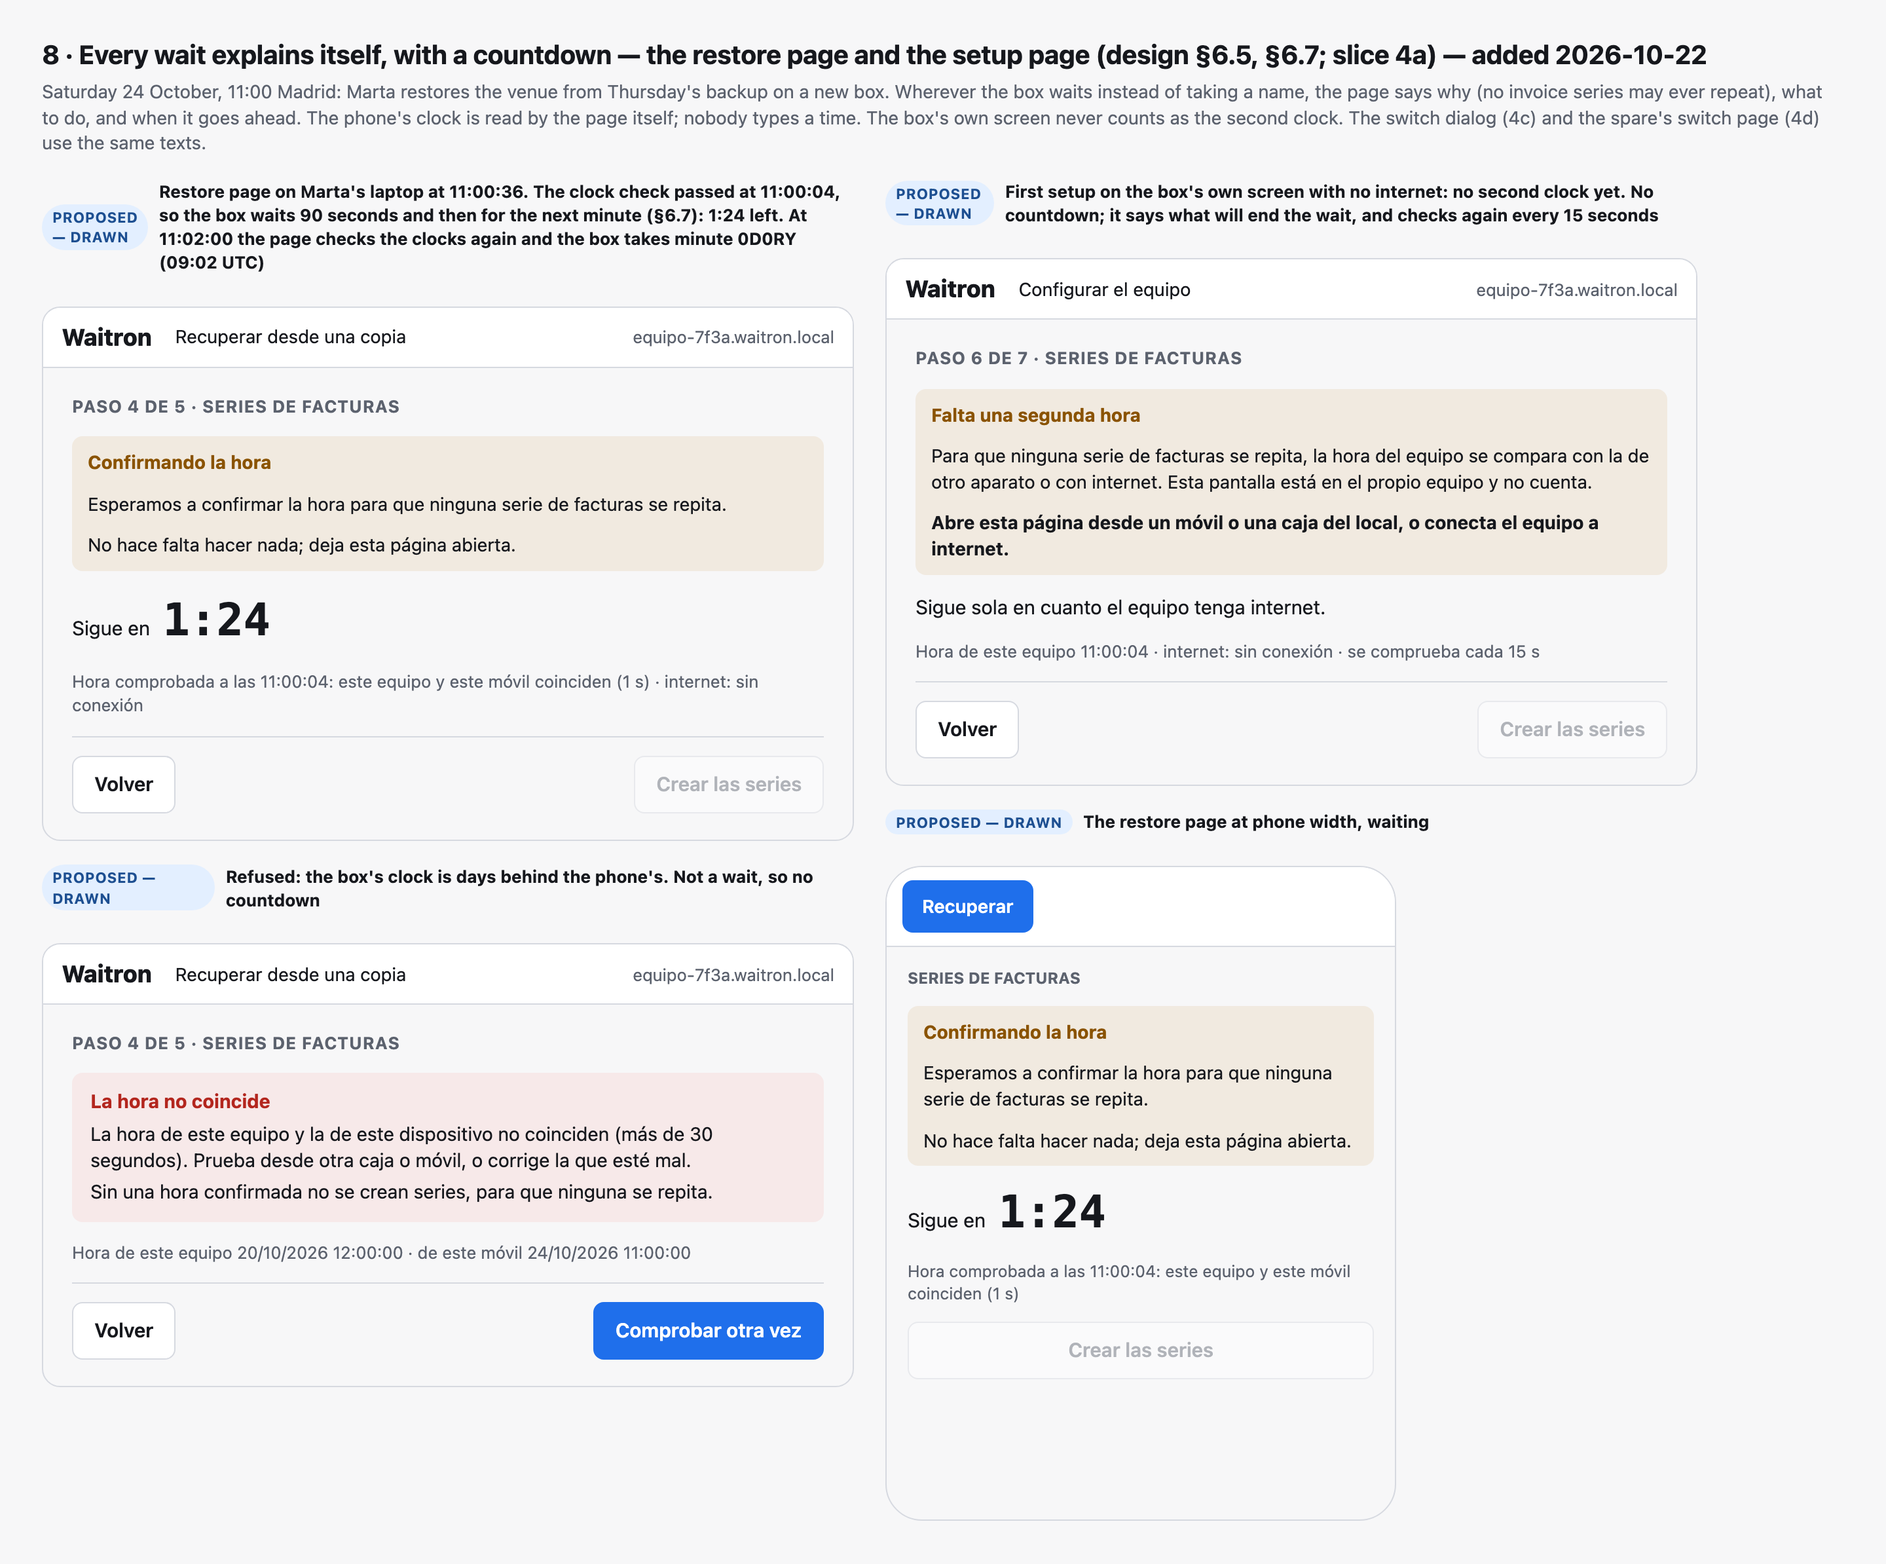
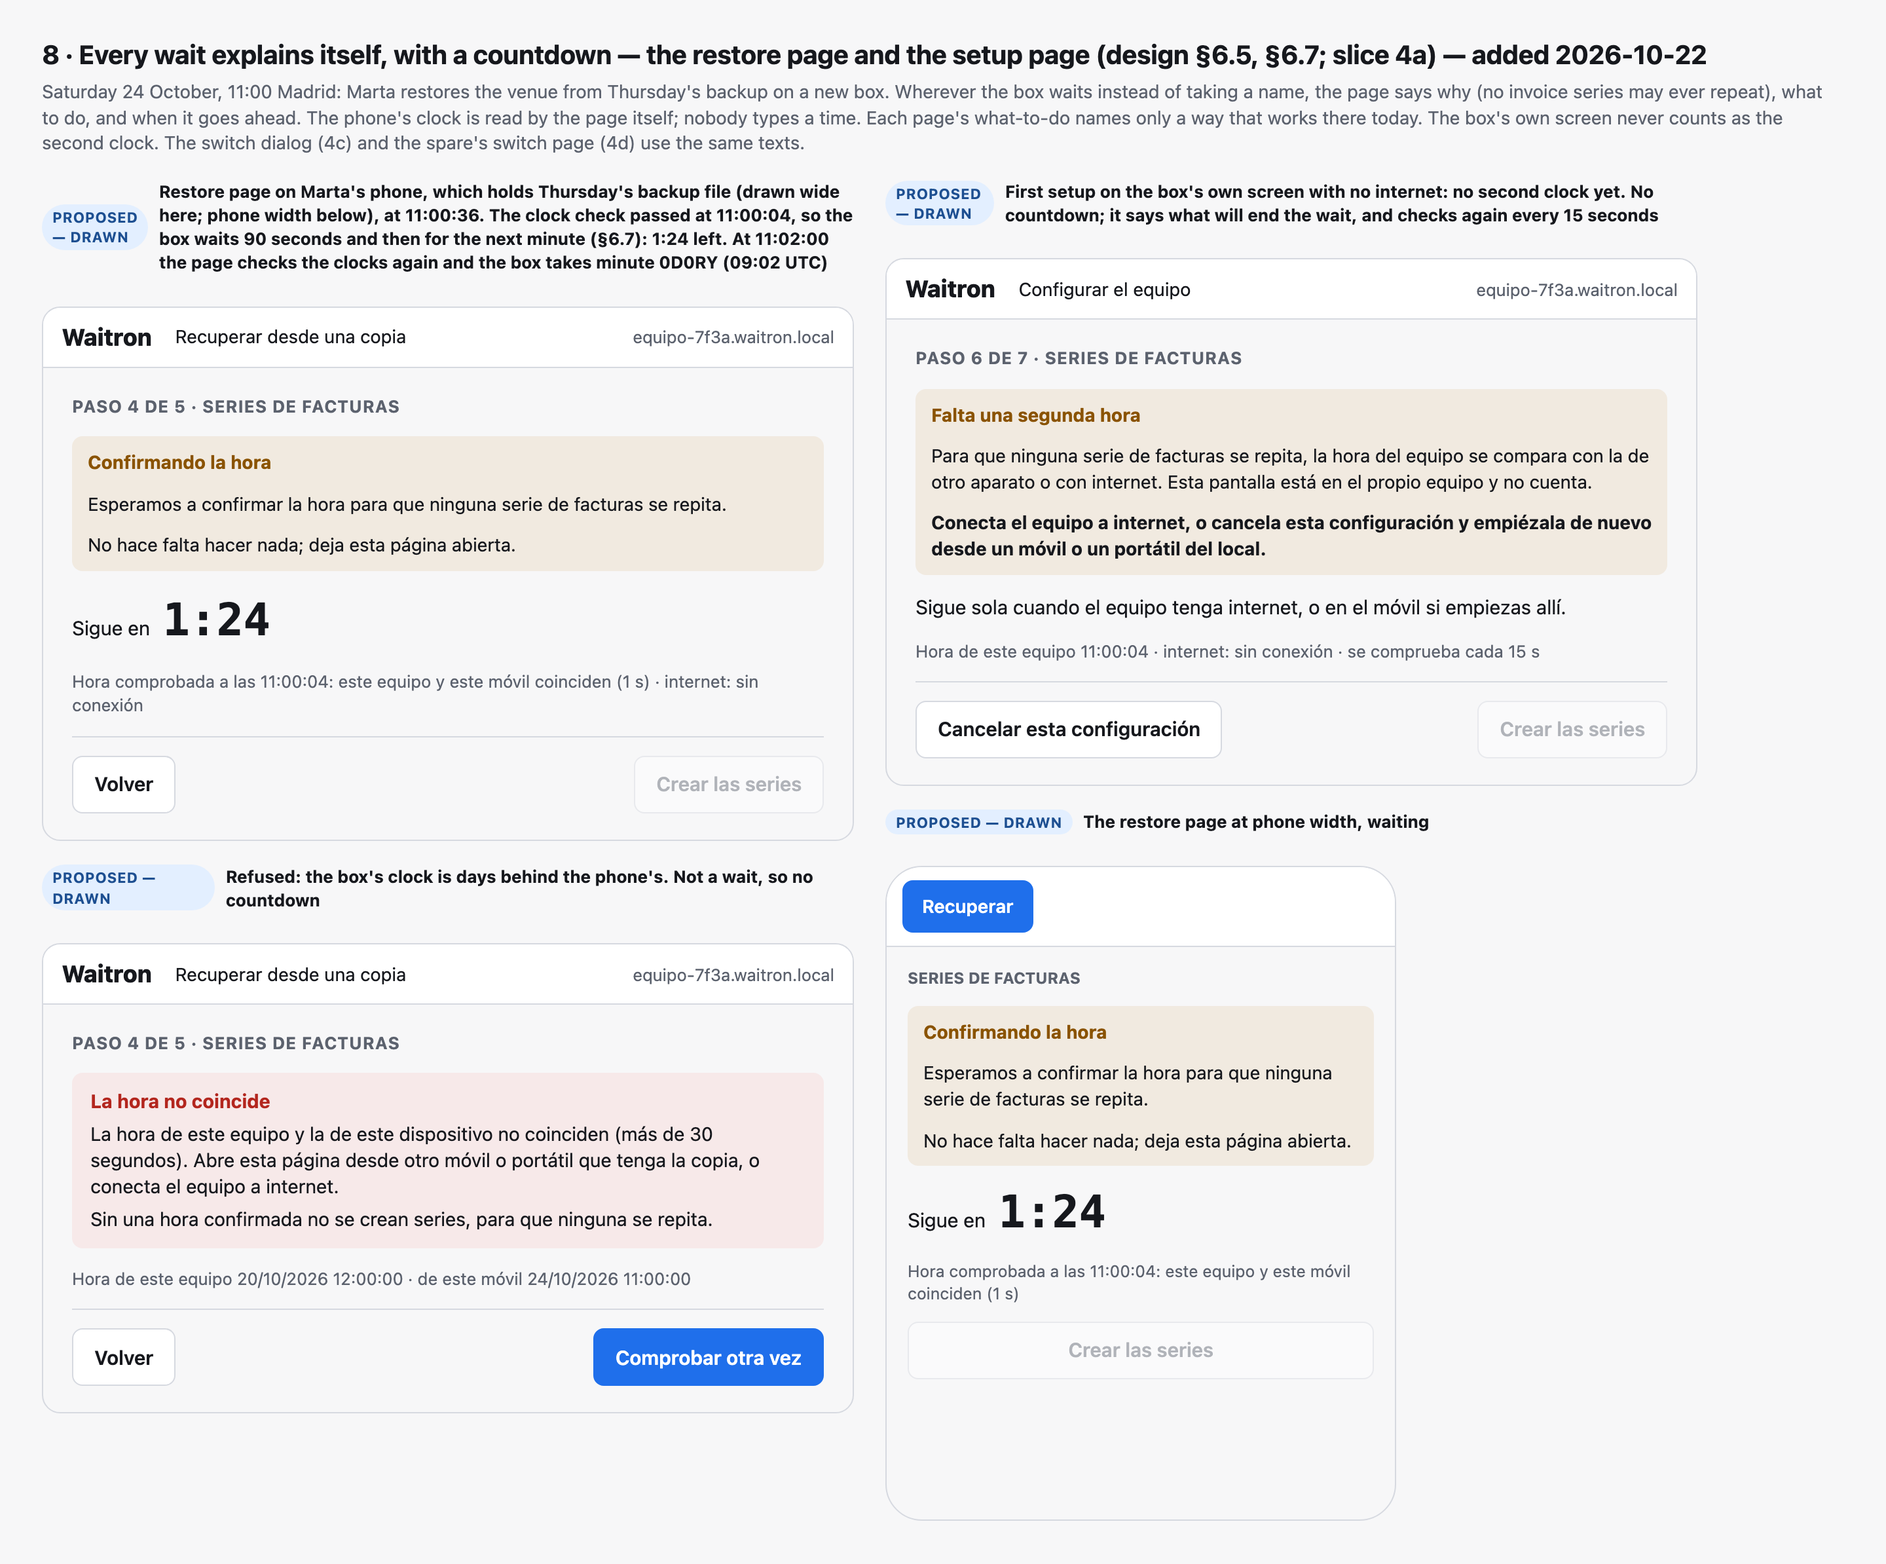
docs: A947 design — the wait texts say only what works today
Applies the fresh review of the slice 4a plan and the coordinator's rulings to
the 2026-10-22 amendment.

- Each page's what-to-do now names only a way that works on that page today. A
  setup belongs to the browser that started it, so the setup page says to cancel
  and start again from a phone (a new claim is refused only while another attempt
  is open, first-setup-state.ts:507-516, read not run). A restore from a backup
  file needs the file, so the restore page names a device that has the backup.
- The no-second-clock text names everything that ends the wait.
- The clock refusal's «…o corrige la que esté mal» ("or correct the one that is
  wrong") asked for a correction nobody can make on the box, so it now gives the
  owner's own 03:12 words: open this page from another till or phone, or connect
  the box to the internet. An FYI for the owner.
- §11's references to §6.7's floor rules are renumbered (it has two, not four).
- §13 gains a line: a kiosk browser in a container on a Docker bridge would count
  as another device.
- Mock-up 8 redrawn: the device is Marta's phone throughout, the setup panel gets
  its cancel button, and the texts match.

diff --git a/docs/superpowers/specs/2026-10-21-a947-two-box-failover-design.md b/docs/superpowers/specs/2026-10-21-a947-two-box-failover-design.md
@@ -32,6 +32,13 @@ rewritten, and carries a dated pointer here.
 >   as the second clock, and nobody is asked to type a time there either.
 > - **§11** slices 4a, 4c and 4d name the screens; §13 and the provenance table gain a line each.
 >   Nothing else the owner approved changes.
+> - **After the plan's review, the same day**: each page's what-to-do names only a way that works
+>   on that page today (a setup belongs to the browser that started it, so the setup page says
+>   "cancel and start again from a phone", and a restore page names a device "that has the
+>   backup"); and the approved clock refusal's «…o corrige la que esté mal» ("or correct the one that
+>   is wrong") is replaced by the owner's own 03:12 words, «Abre esta página desde otra caja o móvil,
+>   o conecta el equipo a internet», because nobody can correct the box's clock (§13). **An FYI to
+>   the owner**, not a question. §13 gains a line on a kiosk browser in a container.
 >
 > **Second revision 2026-10-21 — the owner's answers of about 22:25.** What changed, section by
 > section. (An "installation code" is the short name a box's invoices carry, such as the `0CZZW`
@@ -784,9 +791,11 @@ taken until one of them is put right — and the box cannot tell which one is wr
 - **A spare whose clock has drifted cannot be switched to** — the hard one, mid-service.
 - **A till or phone whose clock has drifted blocks a box whose clock is right**: the switch or the
   restore is refused although the box is fine. So the refusal must not say the box is wrong. It
-  says «La hora de este equipo y la de este dispositivo no coinciden (más de 30 segundos). Prueba
-  desde otra caja o móvil, o corrige la que esté mal», with both readings, and a manager can try
-  from another device.
+  says «La hora de este equipo y la de este dispositivo no coinciden (más de 30 segundos). Abre
+  esta página desde otra caja o móvil, o conecta el equipo a internet», with both readings, and a
+  manager can try from another device. (Amended 2026-10-22: the approved «…o corrige la que esté
+  mal» asked for a correction nobody can make on the box — there is no set-the-clock action, §13
+  — so it now gives the owner's own 03:12 words for what to do. An FYI to the owner.)
 - **The main box's clock drifting goes unseen.** If the main box runs 20 seconds fast and the spare
   31 seconds fast, they differ by 11 seconds, no spare-against-main alert fires, and a switch checked
   against a right till is refused. And a main box out by more than 30 seconds blocks its own
@@ -835,15 +844,31 @@ itself — rule 4 refuses rather than waits out a clock that some reference got 
 | Case | Why | What to do, and when it goes ahead |
 | --- | --- | --- |
 | The 90 to 150 seconds after the check, at a setup or a restore (§6.7); a switch waiting for the next minute | «Esperamos a confirmar la hora para que ninguna serie de facturas se repita.» / "Waiting to confirm the time, so no invoice series is ever repeated." A switch adds the approved «Ya se usó este minuto para cambiar de equipo». | «No hace falta hacer nada; deja esta página abierta.» / "Nothing to do; keep this page open." Then «Sigue en 1:24» / "Continues in 1:24", counting down. |
-| No second clock yet: no internet, and the page is on the box's own screen (or no other device's reading arrived) | «Para que ninguna serie de facturas se repita, la hora del equipo se compara con la de otro aparato o con internet.» / "So no invoice series is ever repeated, the box's time is compared with another device's or the internet's." On the box's own screen it adds «Esta pantalla está en el propio equipo y no cuenta.» / "This screen is on the box itself, so it does not count." | «Abre esta página desde un móvil o una caja del local, o conecta el equipo a internet.» / "Open this page on a phone or till on the venue's network, or connect the box to the internet." No countdown: «Sigue sola en cuanto el equipo tenga internet.» / "It carries on by itself once the box reaches the internet." The page checks again every 15 seconds. |
-| Refused: this box and the other clock differ by more than 30 seconds | «Sin una hora confirmada no se crean series, para que ninguna se repita.» / "No series is made without a confirmed time, so none is ever repeated." | The approved text above, «La hora de este equipo y la de este dispositivo no coinciden (más de 30 segundos). Prueba desde otra caja o móvil, o corrige la que esté mal» / "This box's time and this device's differ by more than 30 seconds. Try from another till or phone, or correct the one that is wrong", with both readings and «Comprobar otra vez» / "Check again". No countdown. |
+| No second clock yet: no internet, and the page is on the box's own screen (or no other device's reading arrived) | «Para que ninguna serie de facturas se repita, la hora del equipo se compara con la de otro aparato o con internet.» / "So no invoice series is ever repeated, the box's time is compared with another device's or the internet's." On the box's own screen it adds «Esta pantalla está en el propio equipo y no cuenta.» / "This screen is on the box itself, so it does not count." | What to do, and what ends the wait, say only what works today (below). No countdown. The page checks again every 15 seconds. |
+| Refused: this box and the other clock differ by more than 30 seconds | «Sin una hora confirmada no se crean series, para que ninguna se repita.» / "No series is made without a confirmed time, so none is ever repeated." | «La hora de este equipo y la de este dispositivo no coinciden (más de 30 segundos).» / "This box's time and this device's differ by more than 30 seconds.", then the page's what-to-do (below), both readings and «Comprobar otra vez» / "Check again". No countdown. |
+
+What to do, by page — each names only a way that works on that page today:
+
+| Page | No second clock: what to do | No second clock: what ends the wait | Clocks differ: what to do |
+| --- | --- | --- | --- |
+| Setup page | «Conecta el equipo a internet, o cancela esta configuración y empiézala de nuevo desde un móvil o un portátil del local.» / "Connect the box to the internet, or cancel this setup and start it again from a phone or laptop on the venue's network." | «Sigue sola cuando el equipo tenga internet, o en el móvil si empiezas allí.» / "It carries on by itself once the box reaches the internet, or on the phone if you start there." | «Cancela esta configuración y empiézala desde otro móvil o portátil, o conecta el equipo a internet.» / "Cancel this setup and start it from another phone or laptop, or connect the box to the internet." |
+| Restore page | «Conecta el equipo a internet, o abre esta página desde un móvil o un portátil del local que tenga la copia.» / "Connect the box to the internet, or open this page on a phone or laptop on the venue's network that has the backup." | «Sigue sola cuando el equipo tenga internet, o en el otro aparato si sigues allí.» / "It carries on by itself once the box reaches the internet, or on the other device if you carry on there." | «Abre esta página desde otro móvil o portátil que tenga la copia, o conecta el equipo a internet.» / "Open this page from another phone or laptop that has the backup, or connect the box to the internet." |
+| Switch dialog and switch page (4c, 4d) | «Cambia desde una caja o un móvil del local, o conecta el equipo a internet.» / "Switch from a till or phone on the venue's network, or connect the box to the internet." | «Sigue sola cuando el equipo tenga internet.» / "It carries on by itself once the box reaches the internet." | «Abre esta página desde otra caja o móvil, o conecta el equipo a internet.» / "Open this page from another till or phone, or connect the box to the internet." (the owner's words, 03:12) |
+
+Why the setup page says "start again": a setup belongs to the browser that started it (its owner
+proof is sent in request headers, `firstFiscalOwner`, `apps/server/src/setup-first-fiscal-api.ts`),
+so a phone cannot carry on a setup begun elsewhere. It can start one afresh once the first is
+abandoned: the claim route checks no device (`setup-first-fiscal-api.ts:330`), and a new claim is
+refused only while another attempt is still open (`assertOtherSetupAllowed`,
+`packages/provisioning/src/first-setup-state.ts:507-516`, which admits an abandoned one) — read
+2026-10-22, not run; slice 4a's plan tests both, and if the setup page offers no way to cancel at
+that step, its texts name only the internet. Why the restore page names "that has the backup": a restore from a
+backup file needs the file on the device doing it.
 
 Which screens show it, by slice: **4a** the setup page and the restore page (the fiscal module's
 setup screens, which the setup app shows); **4c** the switch dialog on a till, a handheld or the
 dashboard; **4d** the spare's switch page, including on the spare's own screen, where with no
-internet the "no second clock" row applies and its what-to-do reads «Cambia desde una caja o un
-móvil del local, o conecta el equipo a internet» / "Switch from a till or phone on the venue's
-network, or connect the box to the internet". The command-line setup has no screen to count down
+internet the "no second clock" row applies. The command-line setup has no screen to count down
 on: it prints the why line and the time it will go ahead. A993's change and its recovery page
 follow the same rule in A940's design. Mock-up 8 draws the restore page waiting, and the setup page
 on the box's own screen with no second clock.
@@ -1537,7 +1562,7 @@ loop test (`apps/server/src/stream-loop.e2e.test.ts`), which grows into the two-
     (`:492-523`, the target set at `:498`); a saved wait must fall on an hour (`:165-173`,
     `% HOUR_MS`). The hosted proposal's shape `["action", "answer", "installationCodes"]`
     (`hosted-hour-recovery.ts:78-87`). In their place: §6.5's minute rules 1–5 and §6.7's setup and
-    restore floor, rules 1–4.
+    restore floor, its two rules.
   - **The clock check, at every allocation.** `hour-clock.ts:114` (120 seconds → 30, measured from
     each other clock's reading, ahead or behind); the confirmation path `:119`, `:134-139` and
     `:141-157` goes — no confirmation passes the clock any more, and a check with no clock from
@@ -1565,7 +1590,7 @@ loop test (`apps/server/src/stream-loop.e2e.test.ts`), which grows into the two-
     test harnesses that send codes, `apps/server/src/testing/staged-hour-crash.ts:205,234,281`,
     `testing/staged-hour-restore.ts:195,223`, `apps/server/test/hour-recovery-host.ts:299,409`,
     `test/owned-hour-setup.ts:96`, `test/hour-recovery-delivery.ts:18`.
-  - **The backup's time floor** (§6.7, rule 3): the history reader `hour-history-reader.ts:51-102`
+  - **The backup's time floor** (§6.7, the floor's rule 1): the history reader `hour-history-reader.ts:51-102`
     also reads the backup's newest invoice record time, read-only, and the selection the backup's
     creation time.
   - **Printed numbers**: the receipt tests print a five-symbol number on 58 mm and 80 mm
@@ -1712,12 +1737,15 @@ the code depends.
   (§6.6, way 3); the manager switches from a till or phone instead.
 - A reference clock (till, phone or internet) more than 15 seconds wrong can still lead to a
   repeated name at a setup or restore (§6.7); the 15-second allowance is a starting value.
-- Whether a phone can carry on a first setup begun on the box's own screen: the setup's owner
-  proof lives in the browser that started it (`firstFiscalOwner`,
-  `apps/server/src/setup-first-fiscal-api.ts`, reads it from request headers). §6.5's "no second
-  clock" text tells the person to open the page from a phone; for a restore and a setup started
-  on a phone or laptop that is the same page, but for one begun on the box's screen it is B3's
-  setup flow that has to allow it (above).
+- A phone cannot carry on a first setup begun on the box's own screen: the setup's owner proof
+  lives in the browser that started it (`firstFiscalOwner`,
+  `apps/server/src/setup-first-fiscal-api.ts`, reads it from request headers). So §6.5's setup
+  page tells the person to start again from a phone, not to carry on there; letting a phone take
+  over is B3's setup flow to allow (above).
+- A browser in a container on a Docker bridge network — a kiosk B3 might run — has an address that
+  is none of the host's own, so it would count as another device's clock while sharing the box's.
+  Slice 4a's rule looks only at the host's own addresses; B3 must not run a kiosk that way, or must
+  extend the rule.
 - Sizing the UPS for two boxes.
 
 ## Provenance

diff --git a/docs/backlog/mockups/a947-two-box-failover/README.md b/docs/backlog/mockups/a947-two-box-failover/README.md
@@ -19,4 +19,4 @@ keeps question 1 as it was asked, with A679's old wording.
 | [5-q1-who-switches.png](5-q1-who-switches.png) | Question 1's worked example, as it was asked: the same Friday evening with a manager switching, and with the boxes switching by themselves (§12). Its proof line (installation code, password and code) is superseded by picture 2 |
 | [6-switch-series-worked-example.png](6-switch-series-worked-example.png) | Every series name, five symbols for the UTC minute: Friday 21:40 a switch takes `0CZZW`, 21:55 a second takes `0D00B` at once, a third in the same minute would wait 2 seconds for `0D00C`; Saturday's restore from an old backup with the box's clock wrong, refused, then `0D0RY` once the clock is right; the rules and what AEAT sees (§6.5, §6.7) |
 | [7-reaching-the-switch.png](7-reaching-the-switch.png) | Reaching the switch from any device: the QR label on each box, a reloaded handheld landing on the spare's switch page at `waitron.local`, and which sign-ins work with the internet down (§6.6) |
-| [8-waiting-explained.png](8-waiting-explained.png) | Every wait explains itself, with a countdown: the restore page during the 90 to 150 seconds after the clock check, saying why (no invoice series may ever repeat), that nothing needs doing, and «Sigue en 1:24»; a first setup on the box's own screen with no internet and so no second clock, saying what to do and what will end the wait, with no countdown; the refusal when the clocks differ by more than 30 seconds; the restore page at phone width (§6.5, §6.7; slice 4a) |
+| [8-waiting-explained.png](8-waiting-explained.png) | Every wait explains itself, with a countdown: the restore page during the 90 to 150 seconds after the clock check, saying why (no invoice series may ever repeat), that nothing needs doing, and «Sigue en 1:24»; a first setup on the box's own screen with no internet and so no second clock, saying what to do (connect the box to the internet, or cancel and start again from a phone) and what will end the wait, with no countdown; the refusal when the clocks differ by more than 30 seconds, naming another device that has the backup; the restore page at phone width (§6.5, §6.7; slice 4a). Redrawn the same day after the plan's review |
